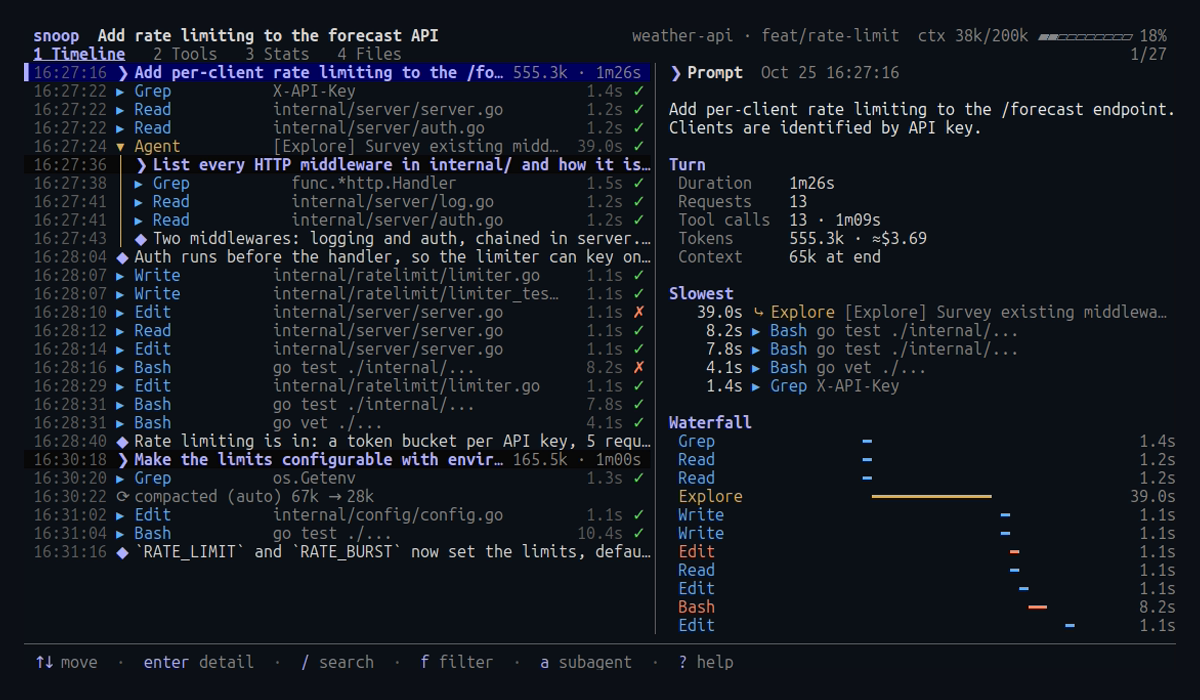
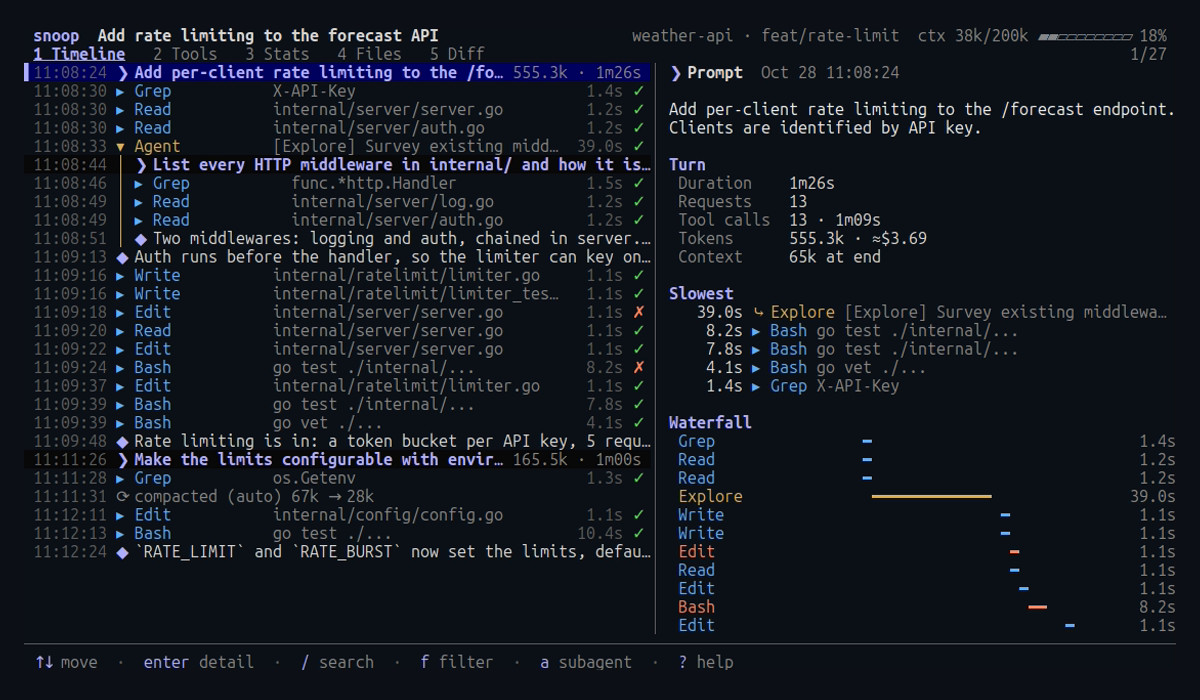
Add a Diff tab screenshot from a fictional repository, and re-render the others

Changed region(s): [[0.0308, 0.09, 0.0925, 0.81], [0.7092, 0.09, 0.74, 0.12], [0.37, 0.06, 0.4008, 0.09]]

diff --git a/demo/seed.py b/demo/seed.py
@@ -1,7 +1,7 @@
 #!/usr/bin/env python3
 """Write fictional Claude Code transcripts for the demo recording.
 
-    demo/seed.py <config-dir> [--live | --live-only]
+    demo/seed.py <config-dir> [--live | --live-only | --diff <repo-dir>]
 
 Creates <config-dir>/projects/... in the layout Claude Code uses, so
 CLAUDE_CONFIG_DIR=<config-dir> snoop shows them instead of your own sessions.
@@ -9,11 +9,14 @@ Timestamps are relative to now, so the picker's ages and the summary's
 30-day chart look the same whenever the GIF is rendered. --live adds three
 sessions active in the last few minutes, for the live board's screenshot;
 --live-only writes just those, right before that screenshot is taken.
+--diff makes a small git repository with uncommitted changes in
+<repo-dir>/weather-api, and the session that made them, for the Diff tab.
 """
 
 import json
 import os
 import random
+import subprocess
 import sys
 import uuid
 from datetime import datetime, timedelta, timezone
@@ -266,10 +269,194 @@ def live(root, now):
     busy.write(project_dir(root, "/home/demo/src/weather-api") / f"{busy.id}.jsonl")
 
 
+MIDDLEWARE_GO = """package ratelimit
+
+import "net/http"
+
+// Middleware rejects requests over the limit with 429 Too Many Requests.
+func (l *Limiter) Middleware(key func(*http.Request) string, next http.Handler) http.Handler {
+	return http.HandlerFunc(func(w http.ResponseWriter, r *http.Request) {
+		if !l.Allow(key(r)) {
+			http.Error(w, "rate limit exceeded", http.StatusTooManyRequests)
+			return
+		}
+		next.ServeHTTP(w, r)
+	})
+}
+"""
+
+MIDDLEWARE_GO_NEW = """package ratelimit
+
+import (
+	"net/http"
+	"strconv"
+)
+
+// Middleware rejects requests over the limit with 429 Too Many Requests,
+// and tells the client how long to wait.
+func (l *Limiter) Middleware(key func(*http.Request) string, next http.Handler) http.Handler {
+	return http.HandlerFunc(func(w http.ResponseWriter, r *http.Request) {
+		if ok, wait := l.Reserve(key(r)); !ok {
+			w.Header().Set("Retry-After", strconv.Itoa(int(wait.Seconds())))
+			http.Error(w, "rate limit exceeded", http.StatusTooManyRequests)
+			return
+		}
+		next.ServeHTTP(w, r)
+	})
+}
+"""
+
+LIMITER_GO = """package ratelimit
+
+import (
+	"sync"
+	"time"
+)
+
+// Limiter is a token bucket per API key.
+type Limiter struct {
+	mu      sync.Mutex
+	buckets map[string]*bucket
+	rate    float64
+	burst   int
+	now     func() time.Time
+}
+
+// Allow takes a token from key's bucket, if it has one.
+func (l *Limiter) Allow(key string) bool {
+	l.mu.Lock()
+	defer l.mu.Unlock()
+	b := l.bucket(key)
+	b.refill(l.now(), l.rate, l.burst)
+	if b.tokens < 1 {
+		return false
+	}
+	b.tokens--
+	return true
+}
+"""
+
+LIMITER_GO_NEW = LIMITER_GO.replace("""// Allow takes a token from key's bucket, if it has one.
+func (l *Limiter) Allow(key string) bool {
+	l.mu.Lock()
+	defer l.mu.Unlock()
+	b := l.bucket(key)
+	b.refill(l.now(), l.rate, l.burst)
+	if b.tokens < 1 {
+		return false
+	}
+	b.tokens--
+	return true
+}
+""", """// Allow takes a token from key's bucket, if it has one.
+func (l *Limiter) Allow(key string) bool {
+	ok, _ := l.Reserve(key)
+	return ok
+}
+
+// Reserve is Allow, and when there's no token it also says how long
+// until the next one.
+func (l *Limiter) Reserve(key string) (bool, time.Duration) {
+	l.mu.Lock()
+	defer l.mu.Unlock()
+	b := l.bucket(key)
+	b.refill(l.now(), l.rate, l.burst)
+	if b.tokens < 1 {
+		missing := 1 - b.tokens
+		return false, time.Duration(missing / l.rate * float64(time.Second))
+	}
+	b.tokens--
+	return true, 0
+}
+""")
+
+MIDDLEWARE_TEST_GO = """package ratelimit
+
+import (
+	"net/http"
+	"net/http/httptest"
+	"testing"
+)
+
+func TestRetryAfter(t *testing.T) {
+	l := New(1, 1)
+	h := l.Middleware(func(*http.Request) string { return "k" }, http.NotFoundHandler())
+	h.ServeHTTP(httptest.NewRecorder(), httptest.NewRequest("GET", "/", nil))
+	w := httptest.NewRecorder()
+	h.ServeHTTP(w, httptest.NewRequest("GET", "/", nil))
+	if w.Code != 429 || w.Header().Get("Retry-After") != "1" {
+		t.Errorf("got %d, Retry-After %q", w.Code, w.Header().Get("Retry-After"))
+	}
+}
+"""
+
+README_MD = """# weather-api
+
+Forecasts by city, from the NWS feed.
+
+## Configuration
+
+| Variable | Default |
+| --- | --- |
+| `ADDR` | `:8080` |
+"""
+
+README_MD_NEW = README_MD + """| `RATE_LIMIT` | `5` |
+| `RATE_BURST` | `20` |
+"""
+
+
+def diff_session(root, repo_dir, now):
+    """A repository with uncommitted changes, most of them the session's."""
+    cwd = str(repo_dir / "weather-api")
+    repo = Path(cwd)
+    files = {"internal/ratelimit/middleware.go": MIDDLEWARE_GO,
+             "internal/ratelimit/limiter.go": LIMITER_GO, "README.md": README_MD}
+    for name, text in files.items():
+        (repo / name).parent.mkdir(parents=True, exist_ok=True)
+        (repo / name).write_text(text)
+
+    def git(*args):
+        subprocess.run(["git", "-C", cwd, "-c", "user.name=demo", "-c", "user.email=demo@example.com",
+                        "-c", "commit.gpgsign=false", *args], check=True, capture_output=True)
+
+    git("init", "-q")
+    git("add", ".")
+    git("commit", "-qm", "Rate limit the forecast endpoint")
+
+    s = Transcript(cwd, "feat/rate-limit", now - timedelta(minutes=3))
+    s.title("Send Retry-After with 429 responses")
+    t0 = s.t
+    s.prompt("When a client is rate limited, tell it when to retry.")
+    s.tools(("Read", {"file_path": f"{cwd}/internal/ratelimit/middleware.go"}, MIDDLEWARE_GO, 0.2),
+            ("Read", {"file_path": f"{cwd}/internal/ratelimit/limiter.go"}, LIMITER_GO, 0.2))
+    s.tools(("Edit", {"file_path": f"{cwd}/internal/ratelimit/limiter.go",
+                      "old_string": LIMITER_GO, "new_string": LIMITER_GO_NEW}, "The file has been updated", 0.1))
+    s.tools(("Edit", {"file_path": f"{cwd}/internal/ratelimit/middleware.go",
+                      "old_string": MIDDLEWARE_GO, "new_string": MIDDLEWARE_GO_NEW}, "The file has been updated", 0.1))
+    s.tools(("Write", {"file_path": f"{cwd}/internal/ratelimit/middleware_test.go",
+                       "content": MIDDLEWARE_TEST_GO}, "File created", 0.1))
+    s.tools(("Bash", {"command": "go test ./internal/ratelimit", "description": "Run the tests"},
+             "ok  \tweather-api/internal/ratelimit\t0.009s", 4.1))
+    s.say("Rate-limited responses now carry Retry-After, in whole seconds until the next token.")
+    s.end_turn(t0)
+    s.cost(0.61)
+
+    # The session's edits, and one of yours in the README.
+    (repo / "internal/ratelimit/limiter.go").write_text(LIMITER_GO_NEW)
+    (repo / "internal/ratelimit/middleware.go").write_text(MIDDLEWARE_GO_NEW)
+    (repo / "internal/ratelimit/middleware_test.go").write_text(MIDDLEWARE_TEST_GO)
+    (repo / "README.md").write_text(README_MD_NEW)
+    s.write(project_dir(root, cwd) / f"{s.id}.jsonl")
+
+
 if __name__ == "__main__":
     mode = sys.argv[2:]
+    if mode[:1] == ["--diff"] and len(mode) == 2:
+        diff_session(Path(sys.argv[1]), Path(mode[1]), datetime.now(timezone.utc))
+        sys.exit()
     if len(sys.argv) not in (2, 3) or mode not in ([], ["--live"], ["--live-only"]):
-        sys.exit("usage: demo/seed.py <config-dir> [--live | --live-only]")
+        sys.exit("usage: demo/seed.py <config-dir> [--live | --live-only | --diff <repo-dir>]")
     root = Path(sys.argv[1])
     now = datetime.now(timezone.utc)
     if mode != ["--live-only"]:

diff --git a/site/content/docs/guides/review.md b/site/content/docs/guides/review.md
@@ -7,6 +7,8 @@ The Diff tab (`5`) shows what the session changed in its working tree, and
 lets you comment on it. The agent receives the comments on its own, without
 you typing into its terminal.
 
+{{< shot src="diff.png" alt="The Diff tab with the session's changed files on the left, and a file's diff on the right with a comment under one line" caption="Under the line it's on, a comment waits until you press S to send it." >}}
+
 ## Set up the hooks once
 
 Comments reach the agent through Claude Code hooks. Run this once:
@@ -37,7 +39,8 @@ runs in the background, so following the session doesn't slow down.
 
 Press `c` on a line to comment on it. To comment on several lines, press `v`,
 move to the last line, and press `c`. Press `C` to comment on the whole file.
-A `●` marks commented lines, and the file list counts each file's comments.
+A `●` marks commented lines, the comment's text shows under its last line,
+and the file list counts each file's comments.
 Press `e` on a commented line to edit its comment, or `x` to delete it.
 
 ## Send
